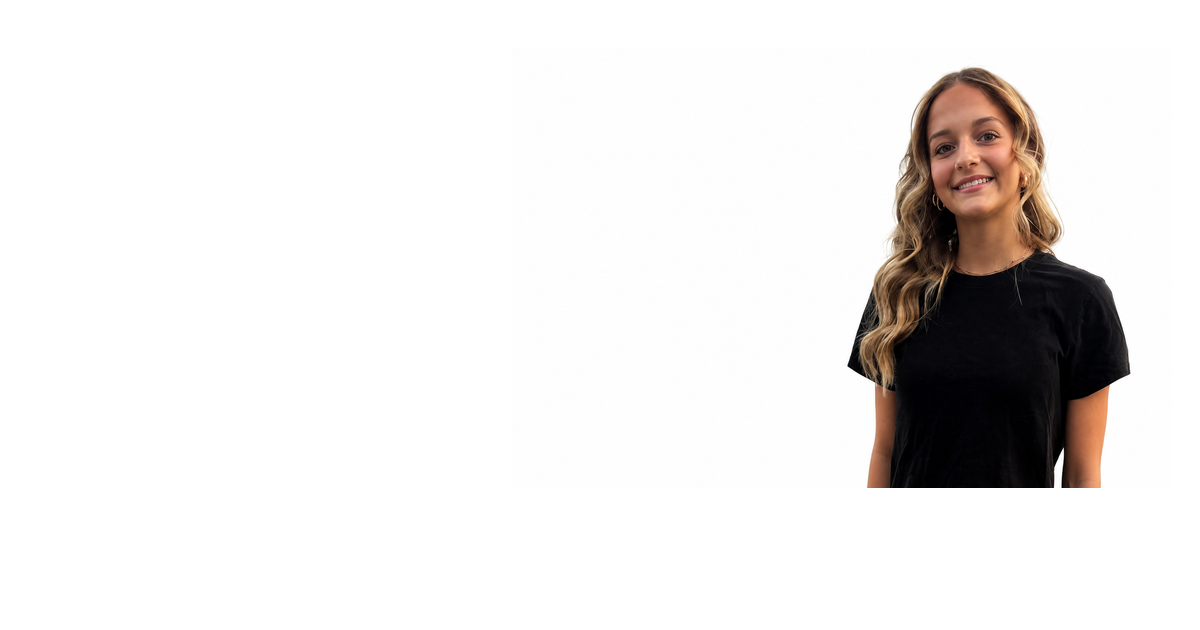
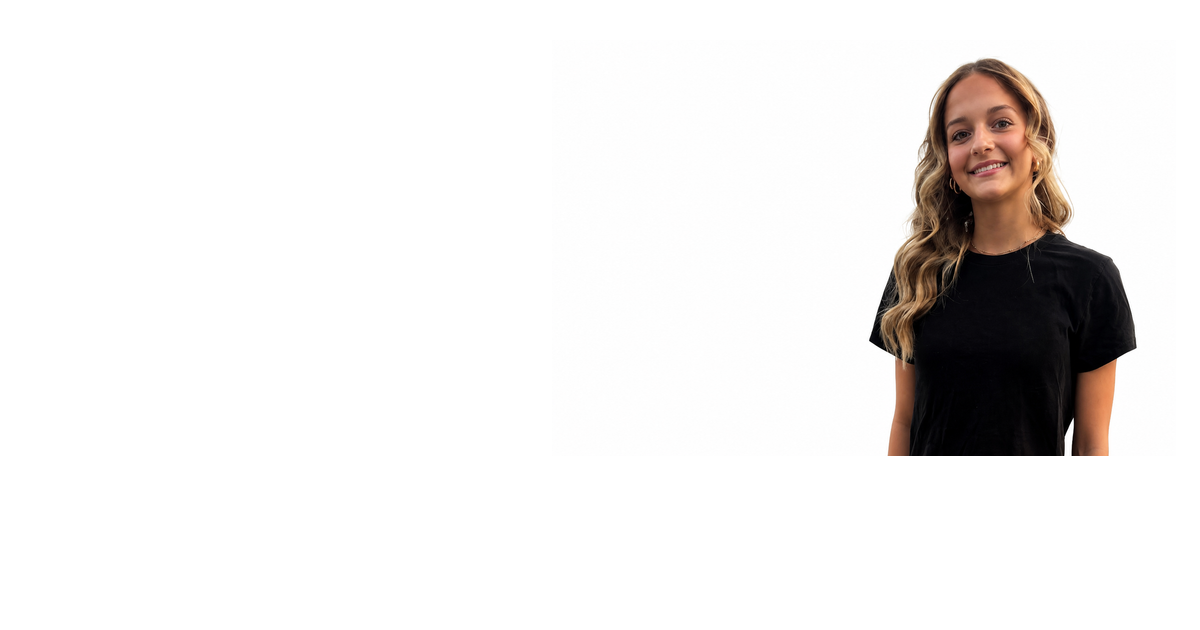
Stop re-cropping the OG cutout so Maddy’s head stays fully in frame.
Use fill for the precomposed asset, pin her crown to the logo plane, and keep the larger logo.

Changed region(s): [[0.7092, 0.0905, 0.9558, 0.7841]]

diff --git a/lib/og-card.tsx b/lib/og-card.tsx
@@ -55,7 +55,8 @@ function PhotoGreenTentCard(props: {
         backgroundColor: "#ffffff",
       }}
     >
-      {/* Subject — cutout sits on the right; full-bleed cover uses right-biased crop */}
+      {/* Subject — cutout asset is already composed 1200×630 (use fill, don’t re-crop).
+          Full-bleed covers still bias right so faces stay clear of left type. */}
       {/* eslint-disable-next-line @next/next/no-img-element */}
       <img
         src={props.photoSrc}
@@ -68,7 +69,7 @@ function PhotoGreenTentCard(props: {
           left: 0,
           width: 1200,
           height: 630,
-          objectFit: "cover",
+          objectFit: props.cutoutOnWhite ? "fill" : "cover",
           objectPosition: props.cutoutOnWhite ? "center center" : "70% 20%",
         }}
       />
